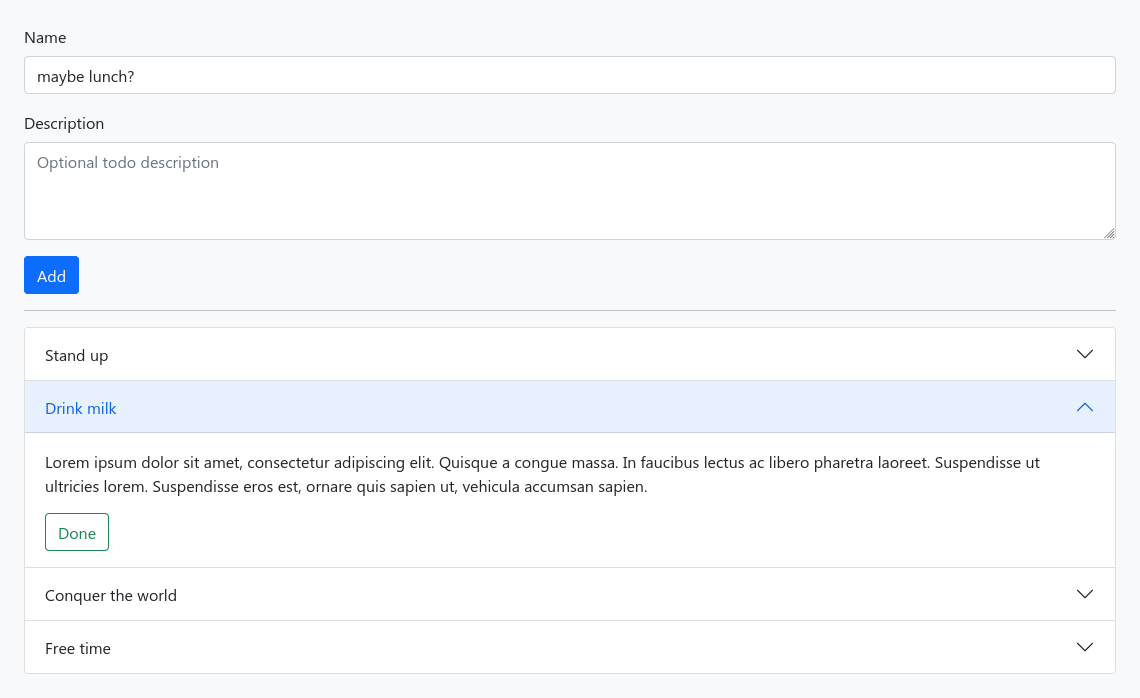
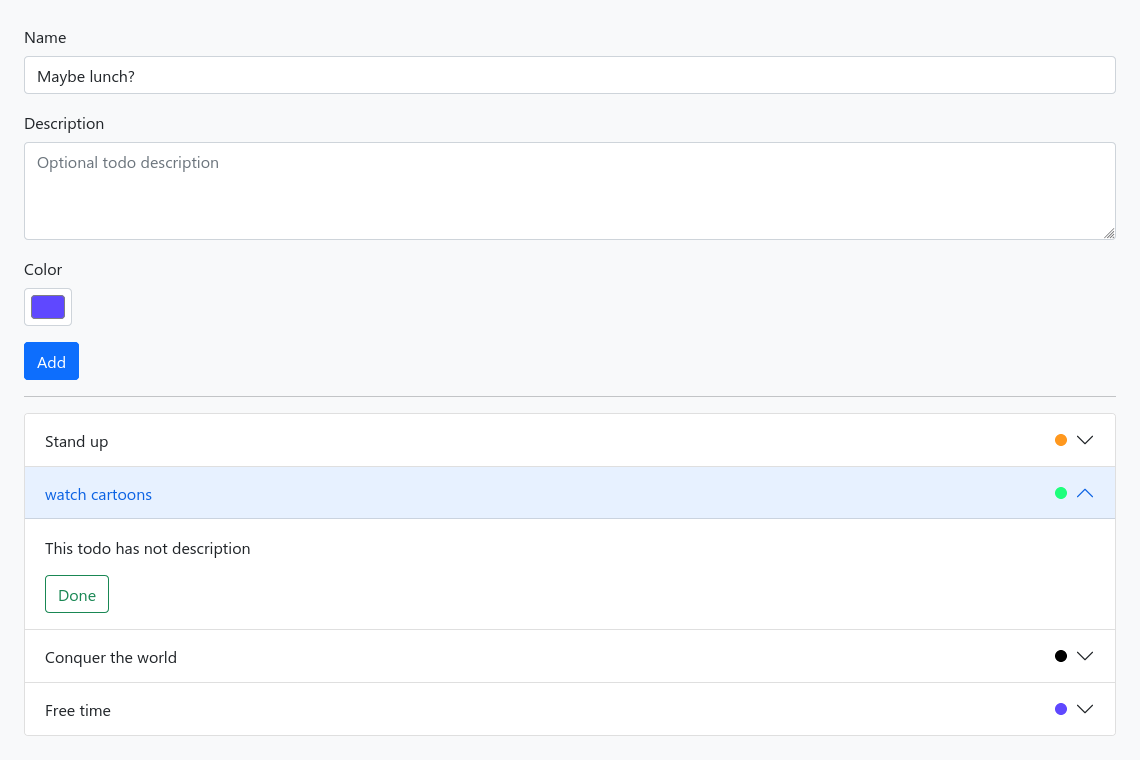
docs: update app.img and README.md

diff --git a/README.md b/README.md
@@ -3,7 +3,7 @@
 It's a simpe todo list created with react.
 
 Now you can:
-- create new task with a name and description
+- create new task with a name, description and color
 - see your tasks
 - done your tasks
 
